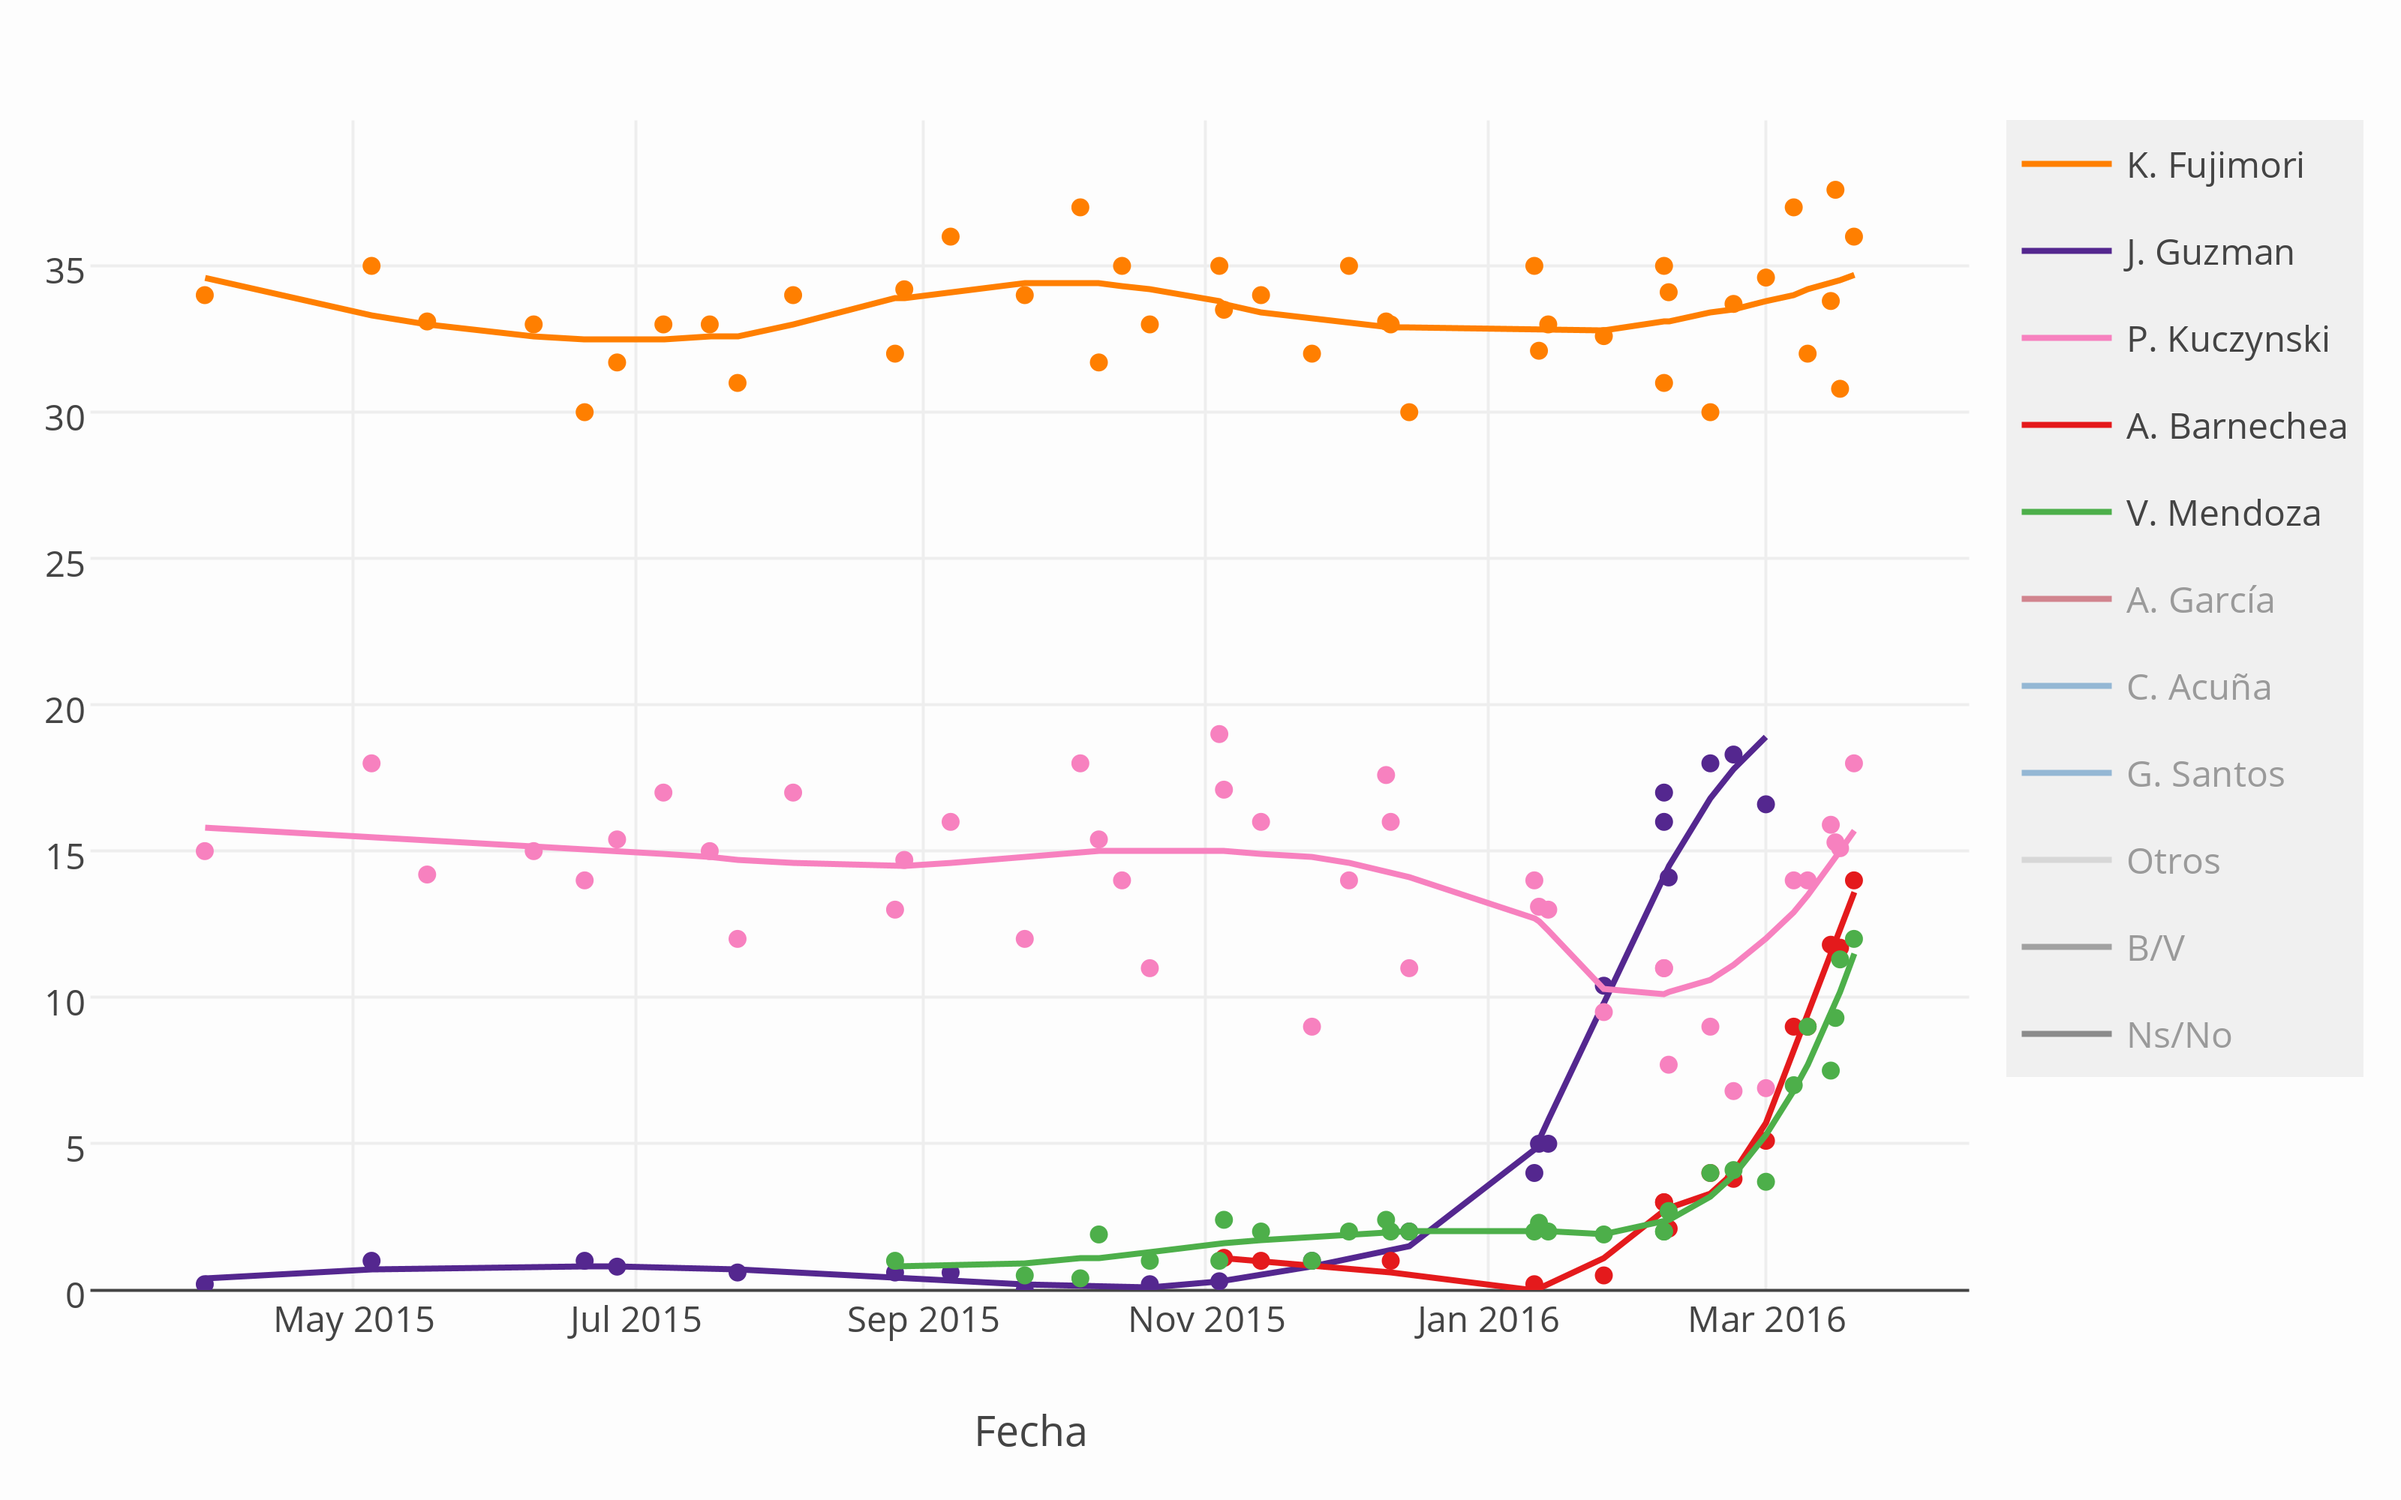
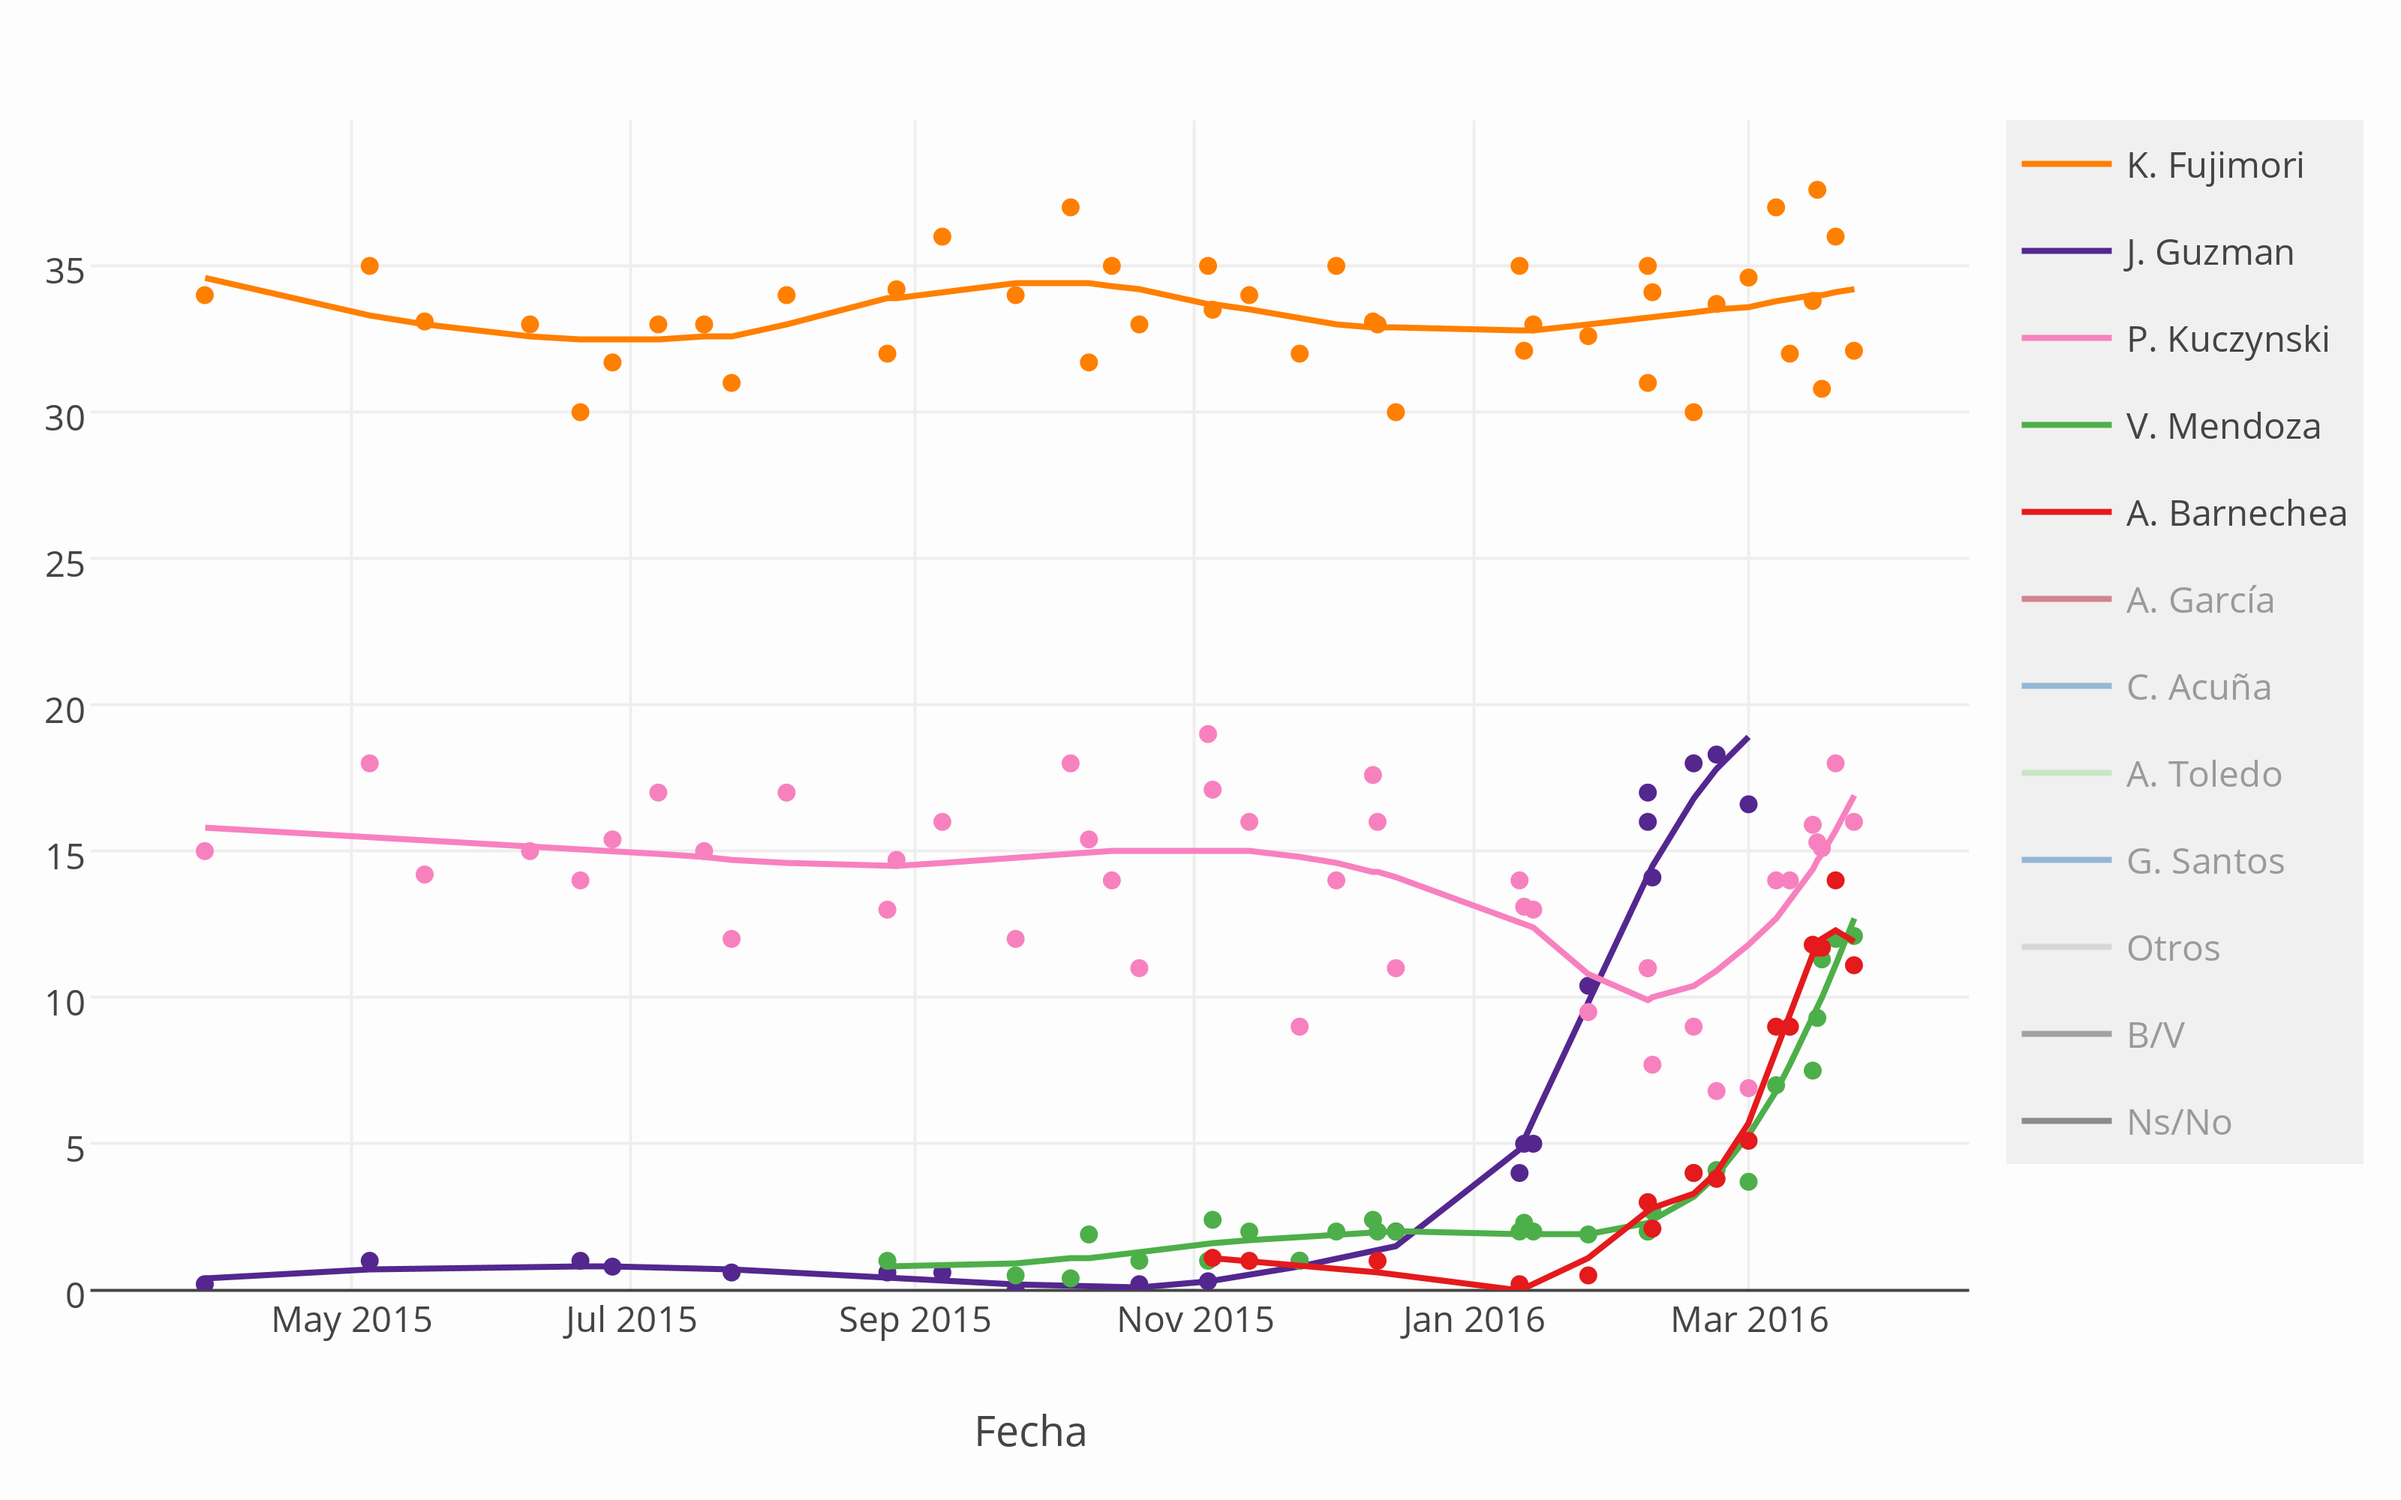
graficoActualizado

diff --git a/_posts/2016-03-28-Elecciones-presidenciales-2016.md b/_posts/2016-03-28-Elecciones-presidenciales-2016.md
@@ -24,7 +24,7 @@ breadcrumb: true
 
 
 
-El siguiente gráfico combina las encuestas de intención de voto. Actualizado el 22-03-2016.
+El siguiente gráfico combina las encuestas de intención de voto. Actualizado el 28-03-2016.
 
 
 
@@ -43,7 +43,7 @@ $('.myIframe').css('height', $(window).height()+'px');
 
 ## Resumen
 
-Estimado de »Resultados.pe« al cierre del trabajo de campo de la encuesta más reciente: 20-03-2016. 
+Estimado de »Resultados.pe« al cierre del trabajo de campo de la encuesta más reciente: 24-03-2016. 
 
 <iframe src="https://plot.ly/~AlejandroKantor/380.embed?link=False"  style="width: 100%" frameBorder="0" height="350" scrolling="no" seamless="seamless" 
 class="myIframe">
